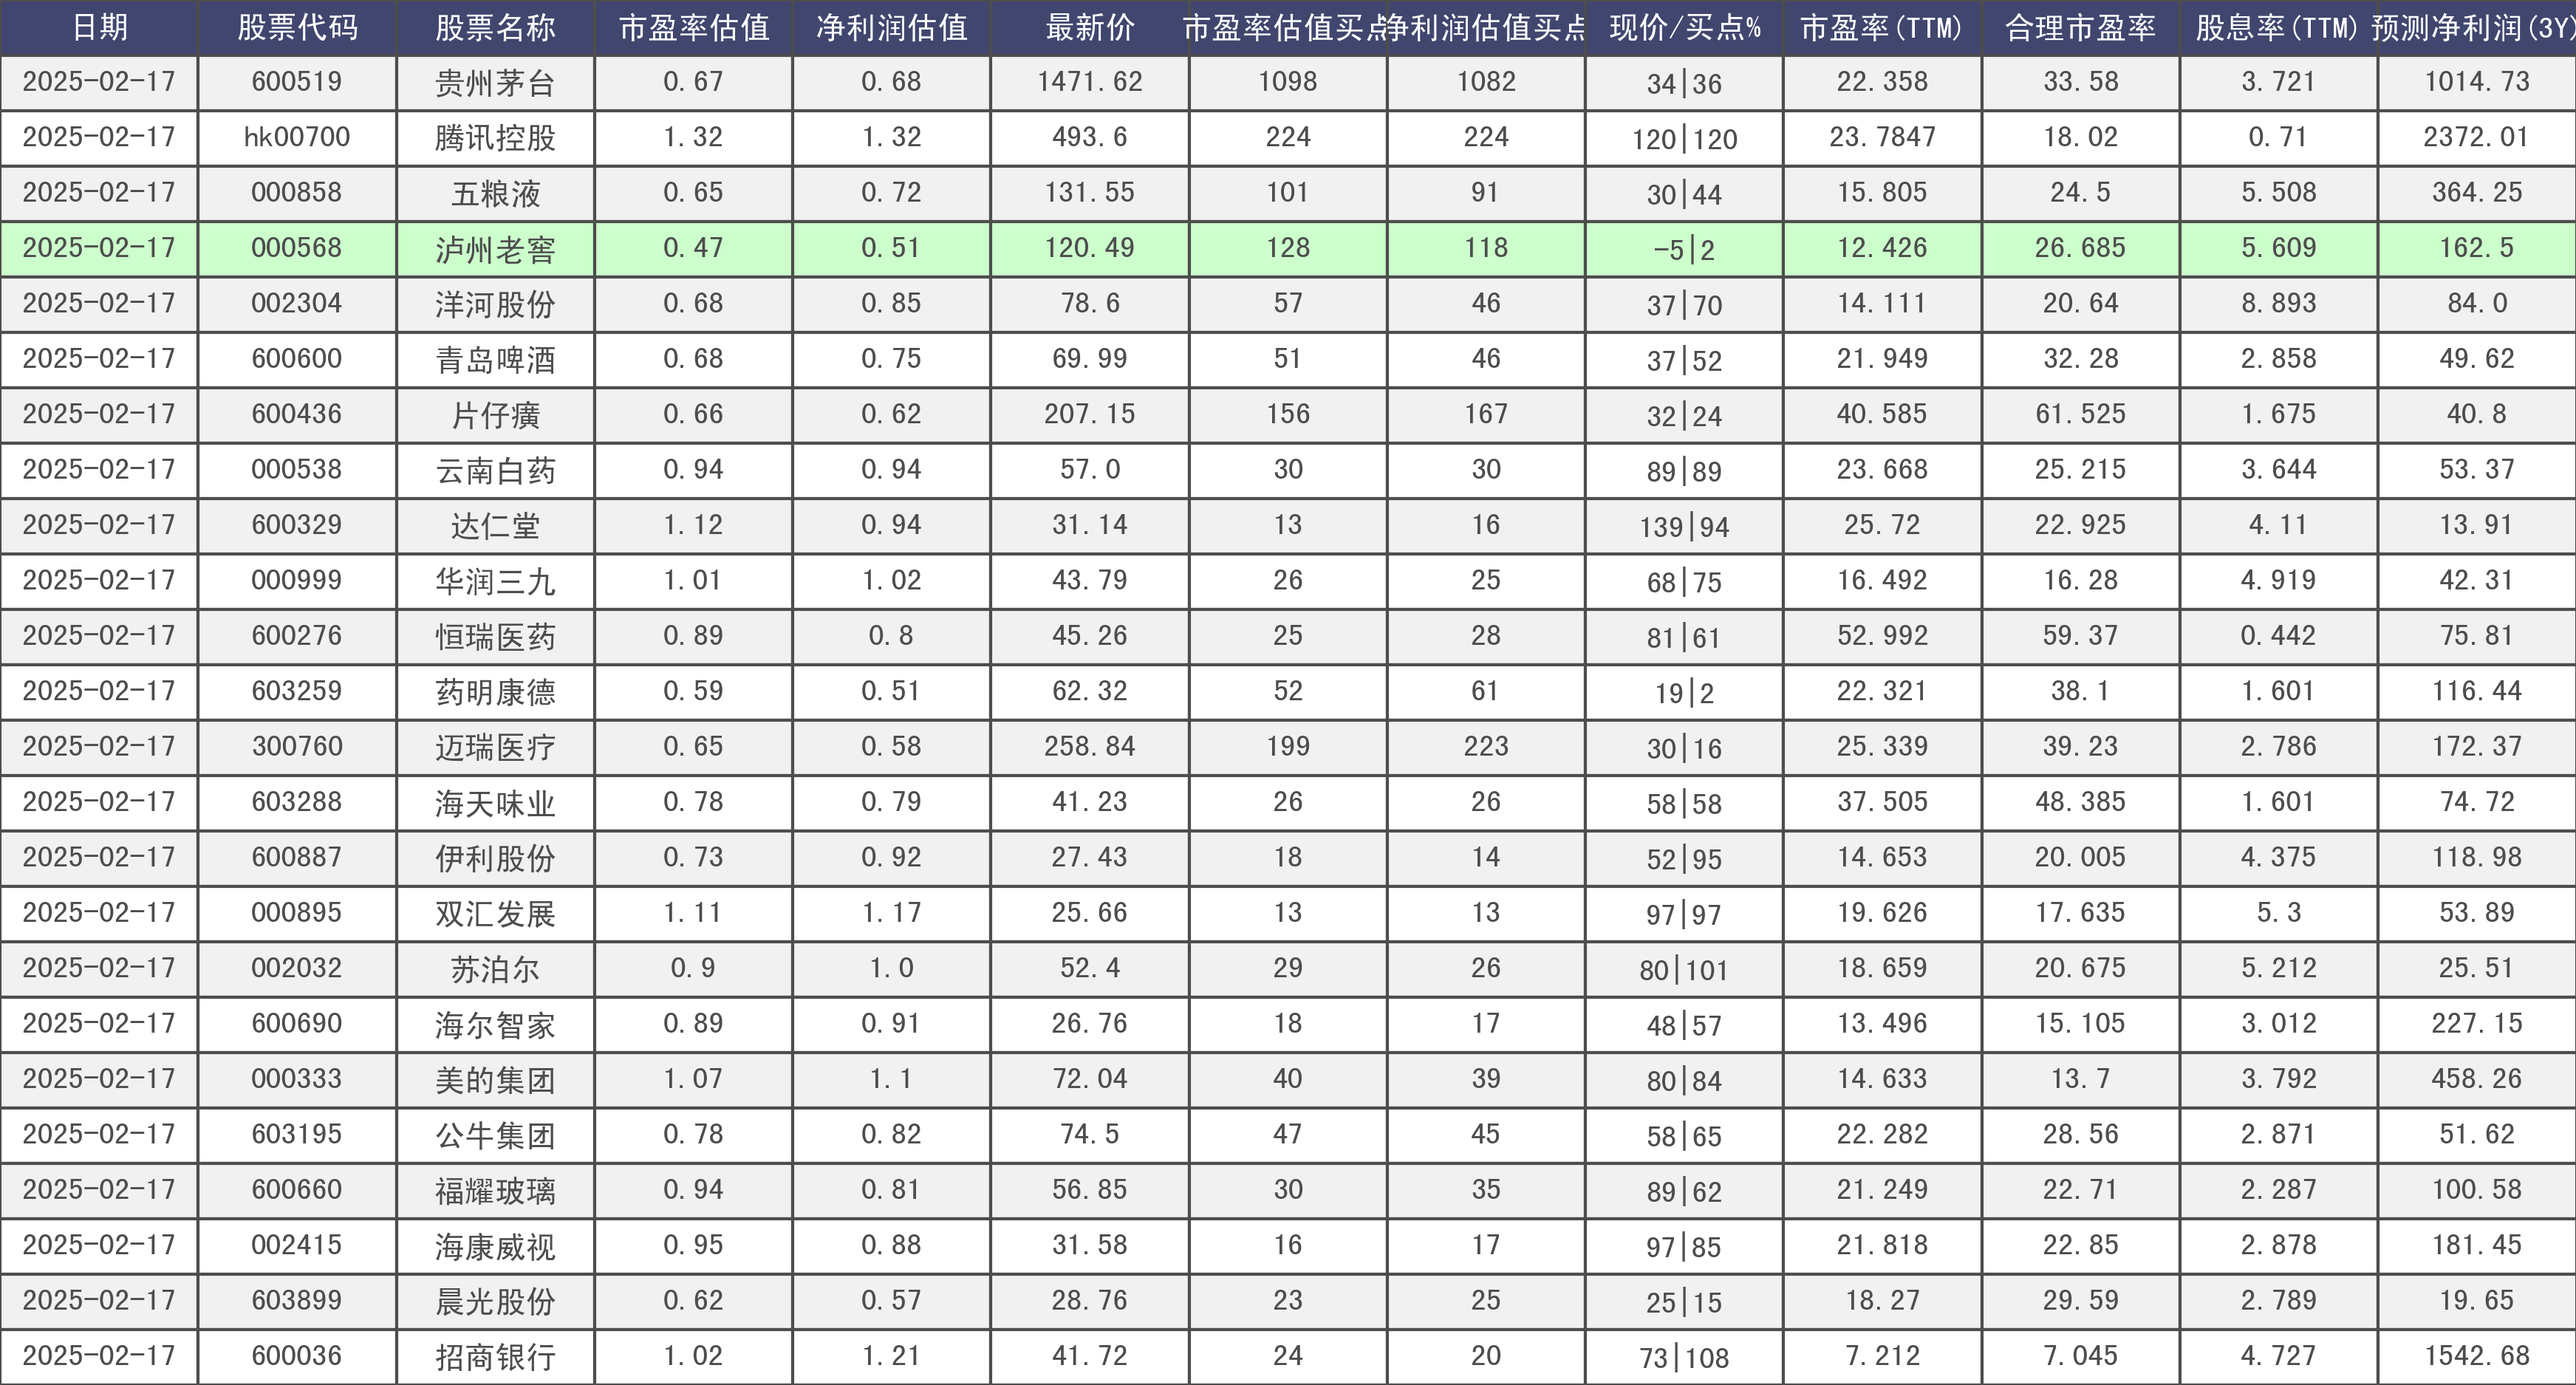
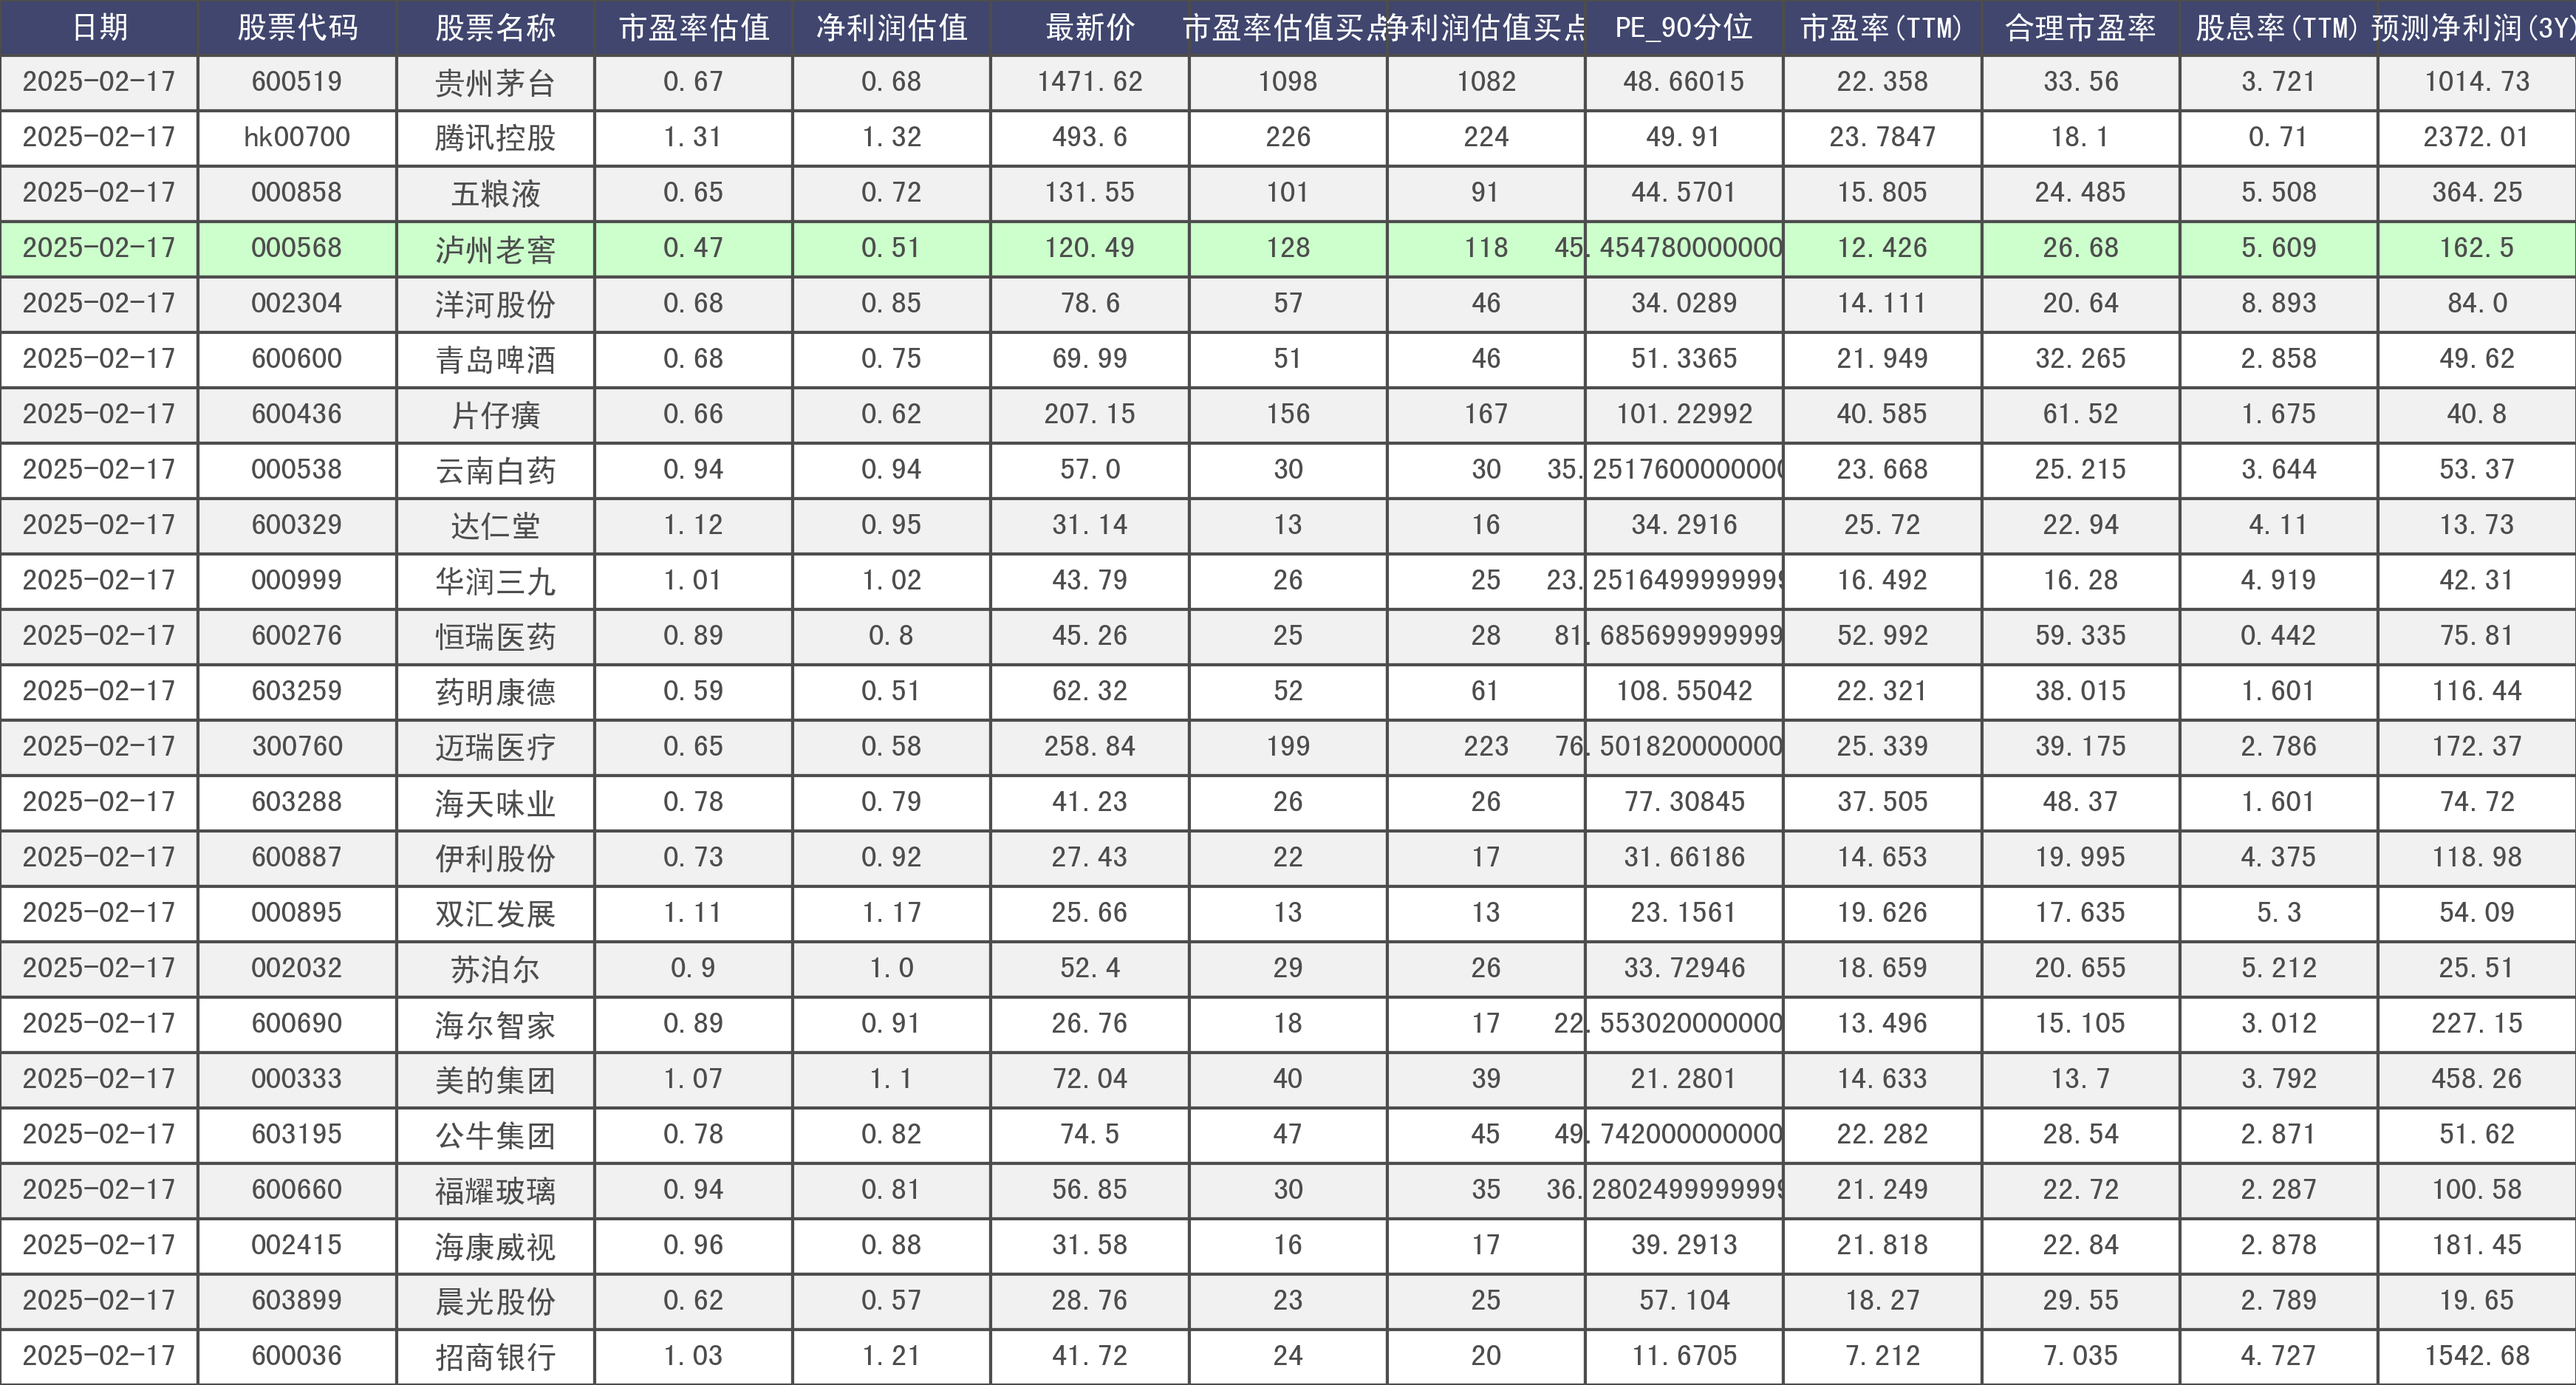
fix: sell_pe_point

diff --git a/index.html b/index.html
@@ -22,7 +22,9 @@
         .dark-green {
             background-color: #4e904e !important;
         }
-        
+        .dark-red {
+            background-color: #f00 !important;
+        }
         .table th, .table td {
             white-space: nowrap;  /* 防止所有列换行 */
             vertical-align: middle;  /* 垂直居中对齐 */
@@ -75,6 +77,10 @@
         
         .table-hover tbody tr.dark-green:hover {
             background-color: #4e904e !important;
+        }
+
+        .table-hover tbody tr.dark-red:hover {
+            background-color: #f00 !important;
         }
         
         /* 标题容器样式 */
@@ -169,7 +175,7 @@
                         </th>
                         <th class="number-cell">市盈率估值买点</th>
                         <th class="number-cell">净利润估值买点</th>
-                        <th class="number-cell">现价/买点%</th>
+                        <th class="number-cell">市盈率卖点</th>
                         <th class="number-cell">市盈率(TTM)</th>
                         <th class="number-cell">合理市盈率</th>
                         <th class="number-cell">股息率(TTM)</th>
@@ -273,18 +279,24 @@
             data.forEach(stock => {
                 const row = document.createElement('tr');
                 const latest_price = parseFloat(stock['最新价']) || 0;
+                const pe_ttm = parseFloat(stock['市盈率(TTM)']) || 0;
                 const pe_buy_point = parseFloat(stock['市盈率估值买点']) || 0;
                 const profit_buy_point = parseFloat(stock['净利润估值买点']) || 0;
-                
+                const pe_sell_point = parseFloat(stock['PE_90分位']) || 0;
+
                 const isLightGreen = latest_price <= pe_buy_point || 
                                    latest_price <= profit_buy_point;
                 const isDarkGreen = latest_price <= pe_buy_point && 
                                   latest_price <= profit_buy_point;
                 
+                const isDarkRed = pe_sell_point <= pe_ttm;
+
                 if (isDarkGreen) {
                     row.classList.add('dark-green');
                 } else if (isLightGreen) {
                     row.classList.add('light-green');
+                } else if (isDarkRed) {
+                    row.classList.add('dark-red');
                 }
 
                 row.innerHTML = `
@@ -296,7 +308,7 @@
                     <td class="number-cell">${formatNumber(parseFloat(stock['净利润估值']))}</td>
                     <td class="number-cell">${formatNumber(parseFloat(stock['市盈率估值买点']))}</td>
                     <td class="number-cell">${formatNumber(parseFloat(stock['净利润估值买点']))}</td>
-                    <td class="number-cell">${stock['现价/买点%']}</td>
+                    <td class="number-cell">${formatNumber(parseFloat(stock['PE_90分位']))}</td>
                     <td class="number-cell">${formatNumber(parseFloat(stock['市盈率(TTM)']))}</td>
                     <td class="number-cell">${formatNumber(parseFloat(stock['合理市盈率']))}</td>
                     <td class="number-cell">${formatNumber(parseFloat(stock['股息率(TTM)']))}%</td>

diff --git a/export.py b/export.py
@@ -52,9 +52,9 @@ last_date = {"date_w": date_w, "date_d": date_d}
 df["市盈率估值买点%"] = ((df["最新价"] / df["市盈率估值买点"] - 1) * 100).astype(int)
 df["净利润估值买点%"] = ((df["最新价"] / df["净利润估值买点"] - 1) * 100).astype(int)
 # 合并为新的列
-df["现价/买点%"] = (
-    df["市盈率估值买点%"].astype(str) + "|" + df["净利润估值买点%"].astype(str)
-)
+# df["现价/买点%"] = (
+#     df["市盈率估值买点%"].astype(str) + "|" + df["净利润估值买点%"].astype(str)
+# )
 
 
 # 显示结果
@@ -68,14 +68,14 @@ last_df = df[
         "最新价",
         "市盈率估值买点",
         "净利润估值买点",
-        "现价/买点%",
+        "市盈率90分位(w)",
         "市盈率(TTM)",
         "合理市盈率",
         "股息率(TTM)",
         "fix_预测净利润(亿)(w)",
     ]
 ].copy()
-last_df = last_df.rename(columns={"fix_预测净利润(亿)(w)": "预测净利润(3Y)"})
+last_df = last_df.rename(columns={"fix_预测净利润(亿)(w)": "预测净利润(3Y)","市盈率90分位(w)":"PE_90分位"})
 
 last_df["日期"] = pd.to_datetime(last_df["日期"]).dt.strftime("%Y-%m-%d")
 # 转换为JSON格式
